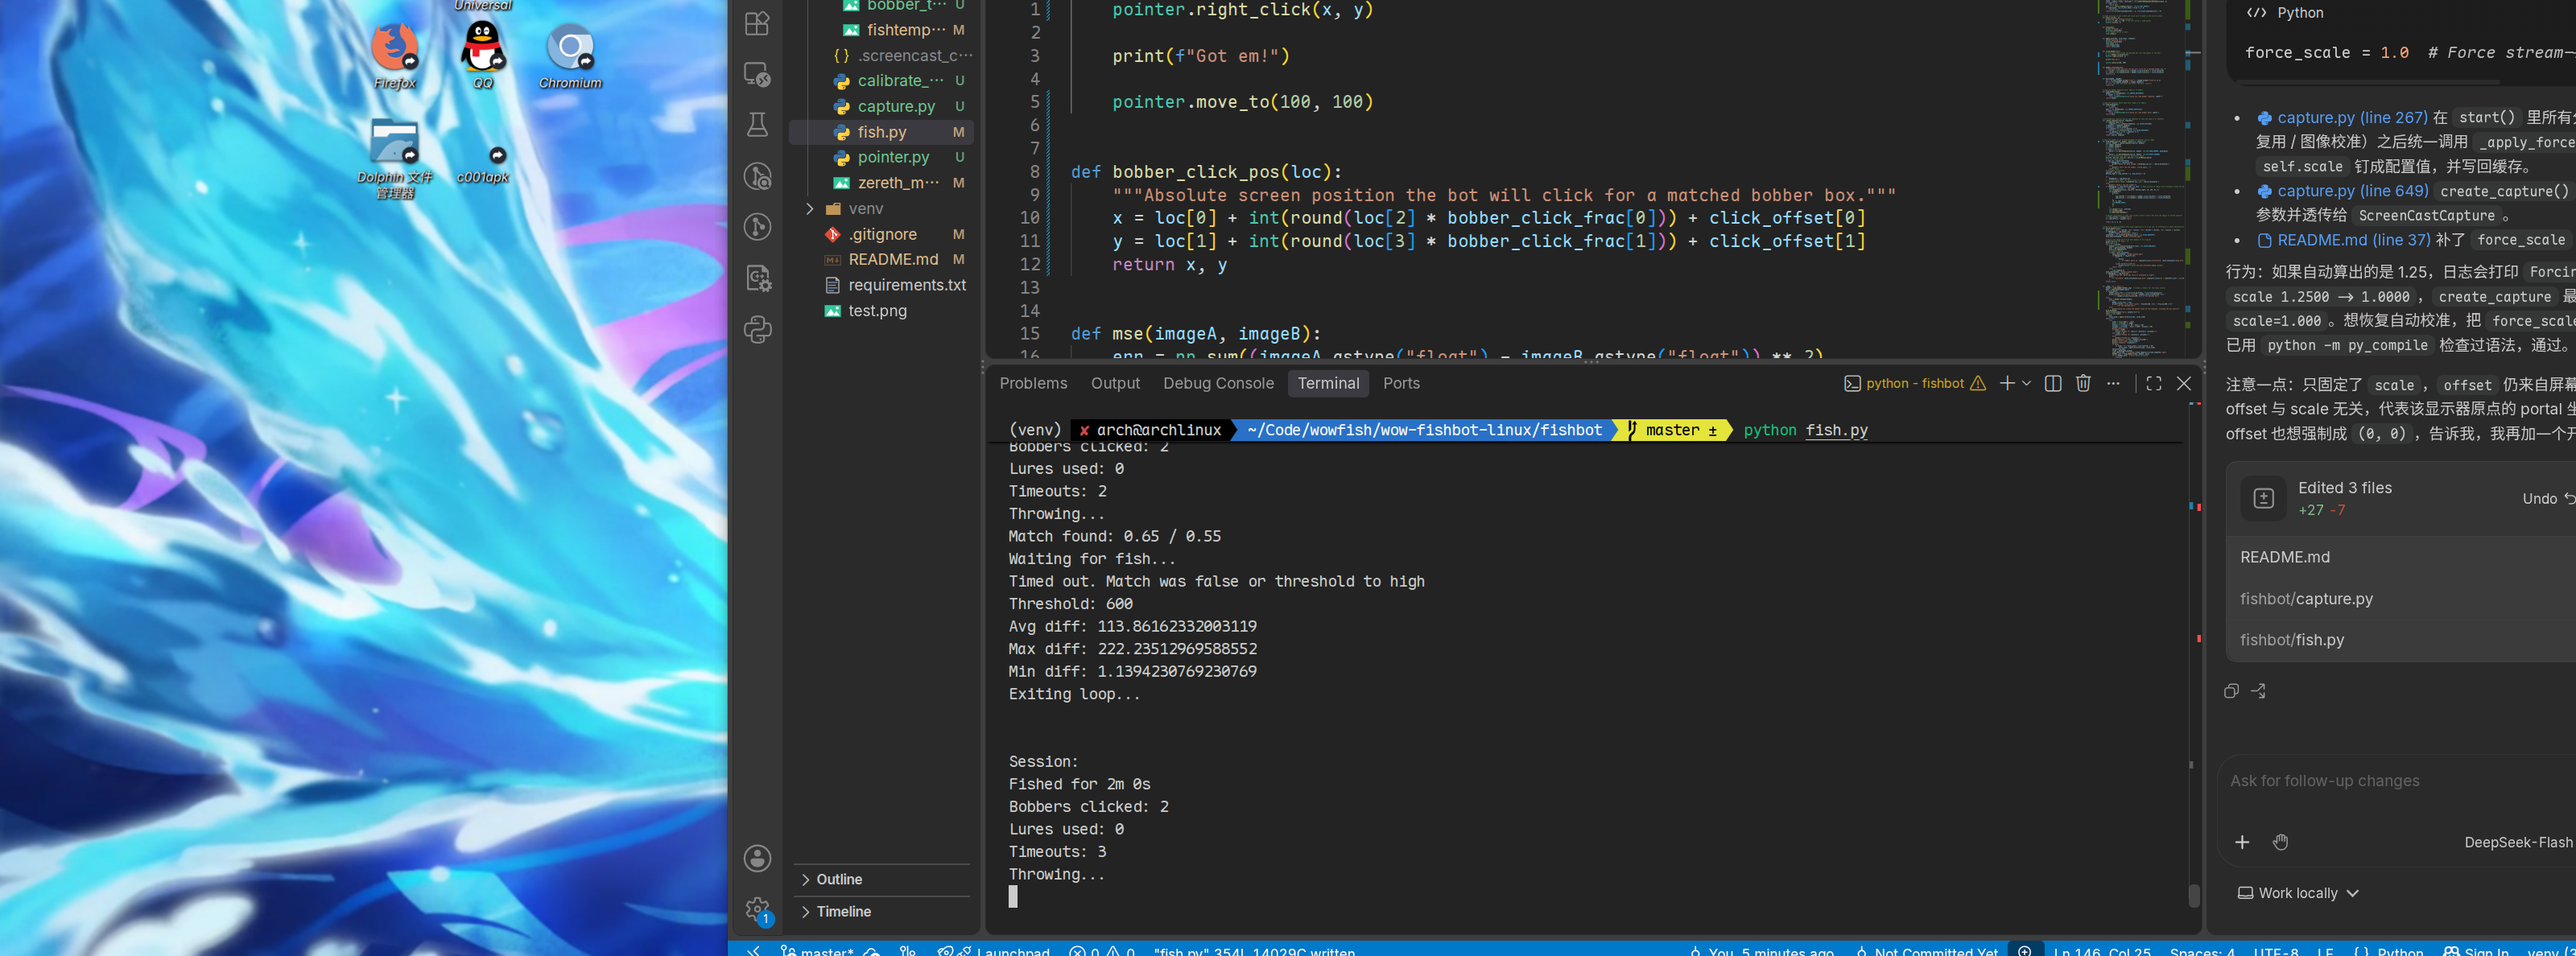
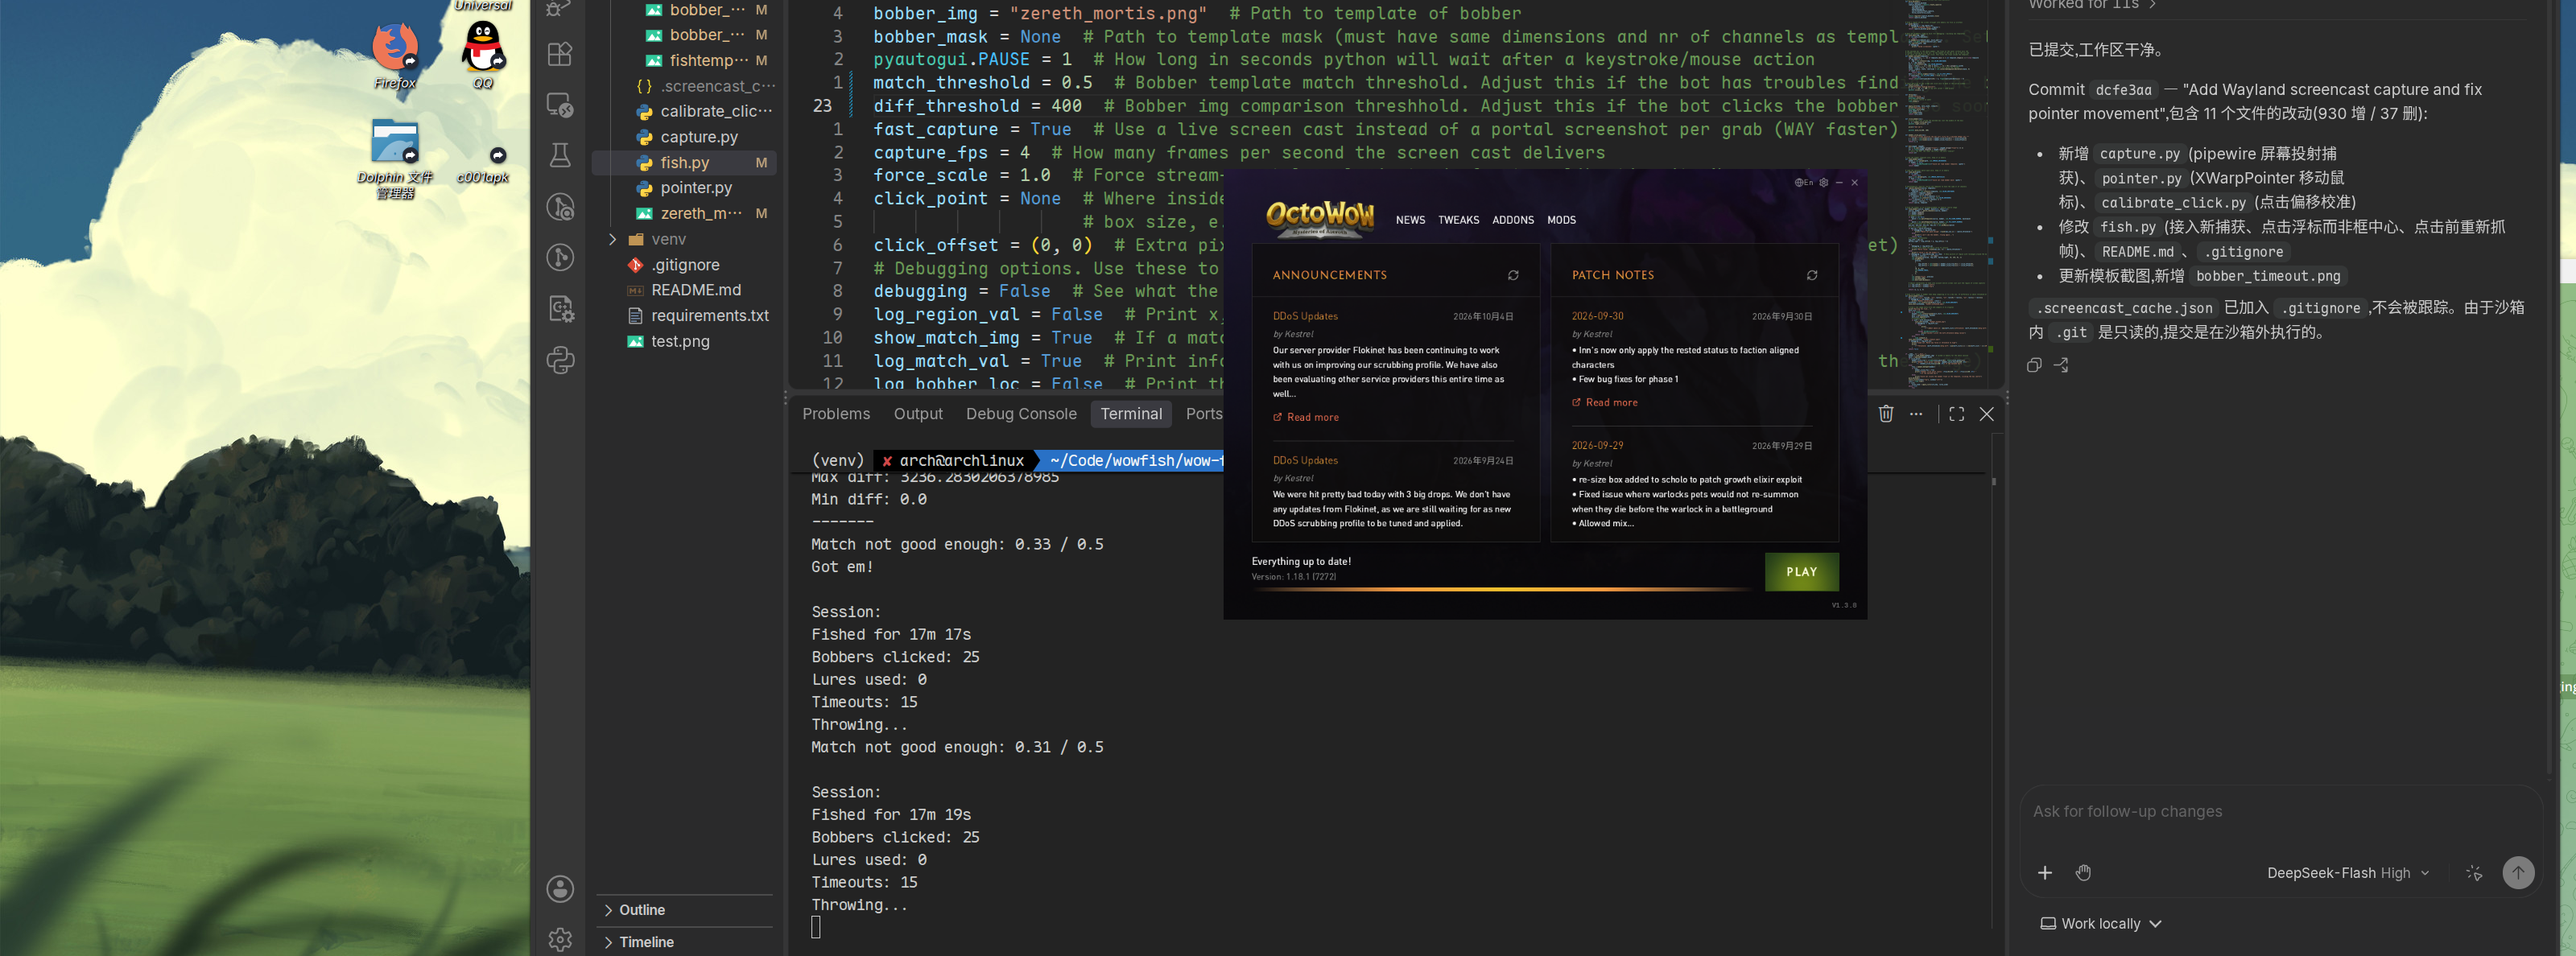
Tune match/diff thresholds and bobber watch timing
Lower match_threshold to 0.5 and diff_threshold to 400, poll the bobber
every 0.2s over a longer window (130 tries) so bites are caught sooner, and
pause briefly after a timeout before rethrowing. Refresh the bobber and
screenshot templates to match.

diff --git a/fishbot/fish.py b/fishbot/fish.py
@@ -19,8 +19,8 @@ monitor = 1  # Monitor to capture (NOT IMPLEMENTED)
 bobber_img = "zereth_mortis.png"  # Path to template of bobber
 bobber_mask = None  # Path to template mask (must have same dimensions and nr of channels as template). Set = None to not use a mask
 pyautogui.PAUSE = 1  # How long in seconds python will wait after a keystroke/mouse action
-match_threshold = 0.55  # Bobber template match threshold. Adjust this if the bot has troubles finding the bobber. Higher = Better match
-diff_threshold = 600  # Bobber img comparison threshhold. Adjust this if the bot clicks the bobber too soon or not at all. Higher = Bigger diff
+match_threshold = 0.5  # Bobber template match threshold. Adjust this if the bot has troubles finding the bobber. Higher = Better match
+diff_threshold = 400  # Bobber img comparison threshhold. Adjust this if the bot clicks the bobber too soon or not at all. Higher = Bigger diff
 fast_capture = True  # Use a live screen cast instead of a portal screenshot per grab (WAY faster)
 capture_fps = 4  # How many frames per second the screen cast delivers
 force_scale = 1.0  # Force stream->portal scale instead of auto-calibrating it. None = auto
@@ -261,7 +261,7 @@ def watch_bobber(rect):
     # Grab a new image every 0.5s and compare it to original
     print("Waiting for fish...")
     diff_list = []
-    for i in range(50):
+    for i in range(130):
         hooked = cv2.cvtColor(grab(dict_rect), cv2.COLOR_BGR2GRAY)
         diff = mse(nothooked, hooked)
         diff_list.append(diff)
@@ -277,7 +277,7 @@ def watch_bobber(rect):
                     print("Couldn't print the diff_threshold debug values")
             return True
         else:
-            time.sleep(0.5)
+            time.sleep(0.2)
     save_shot(hooked, "bobber_timeout.png")
     if debugging or log_diff_val:
         print("Timed out. Match was false or threshold to high")
@@ -343,6 +343,7 @@ if __name__ == "__main__":
             else:
                 print("Exiting loop...\n")
                 timeouts += 1
+                time.sleep(0.5)
                 continue
         except OSError as err:
             print(f"OSError: {err}")
